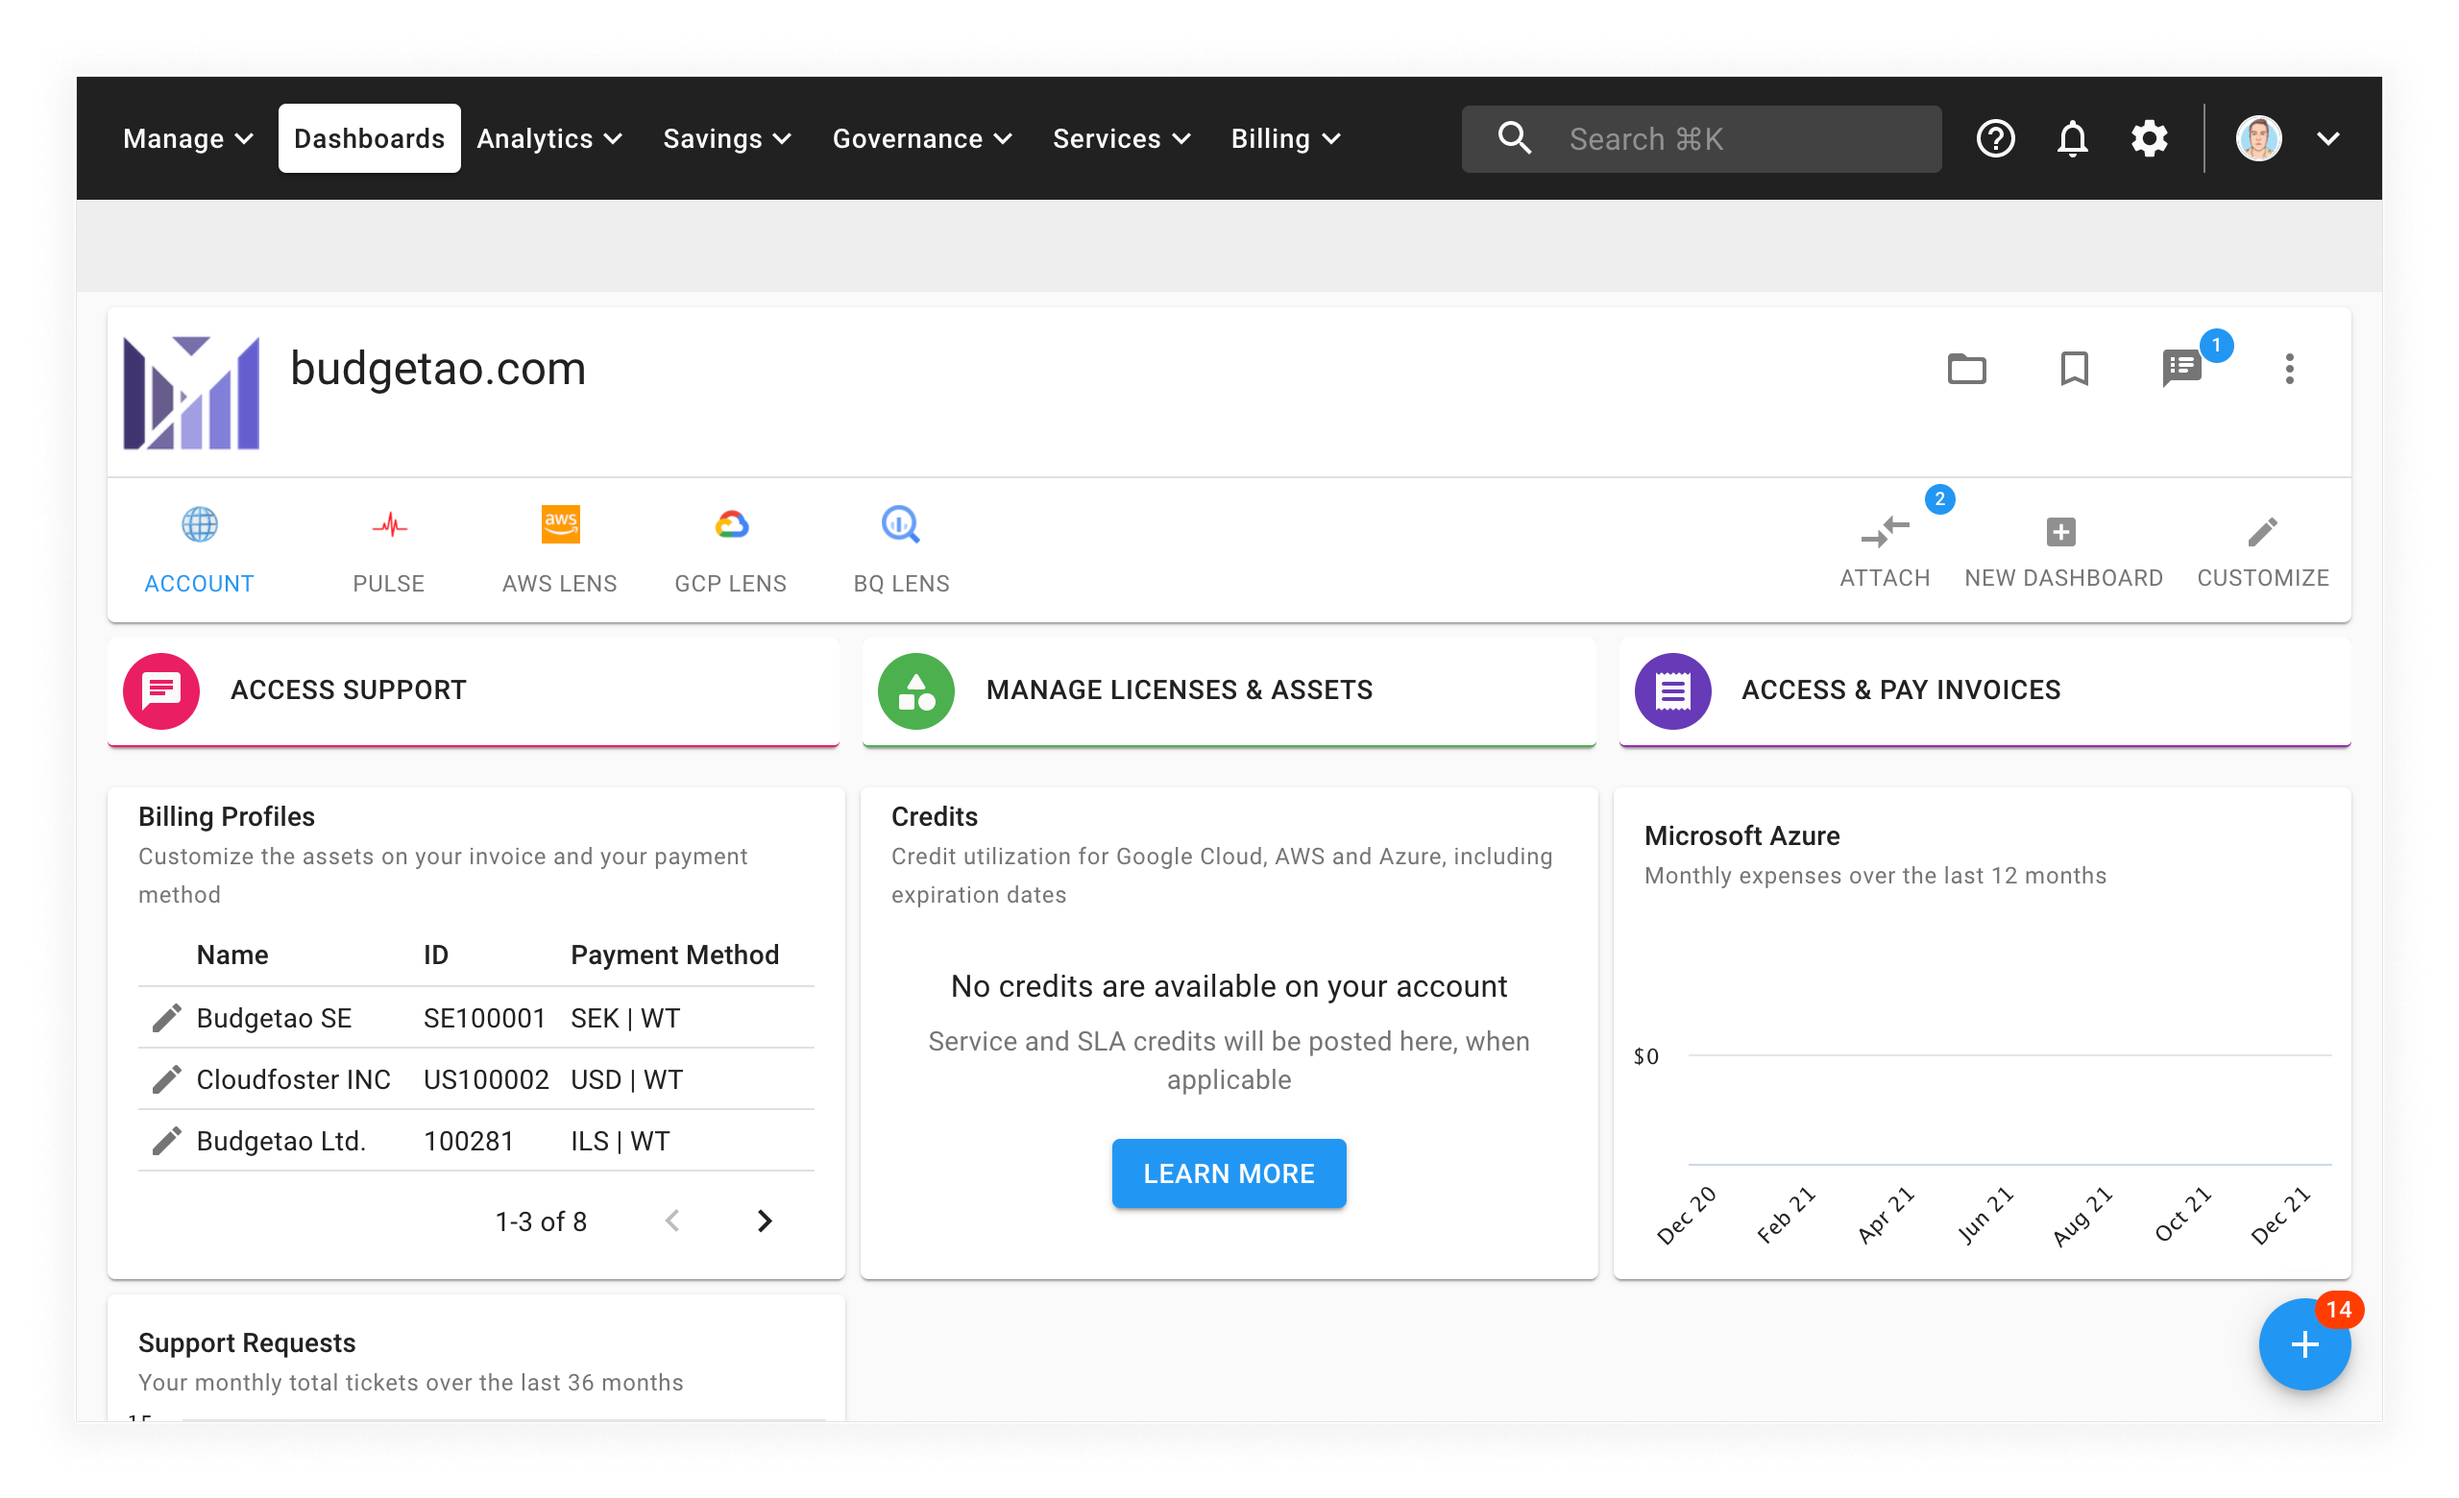
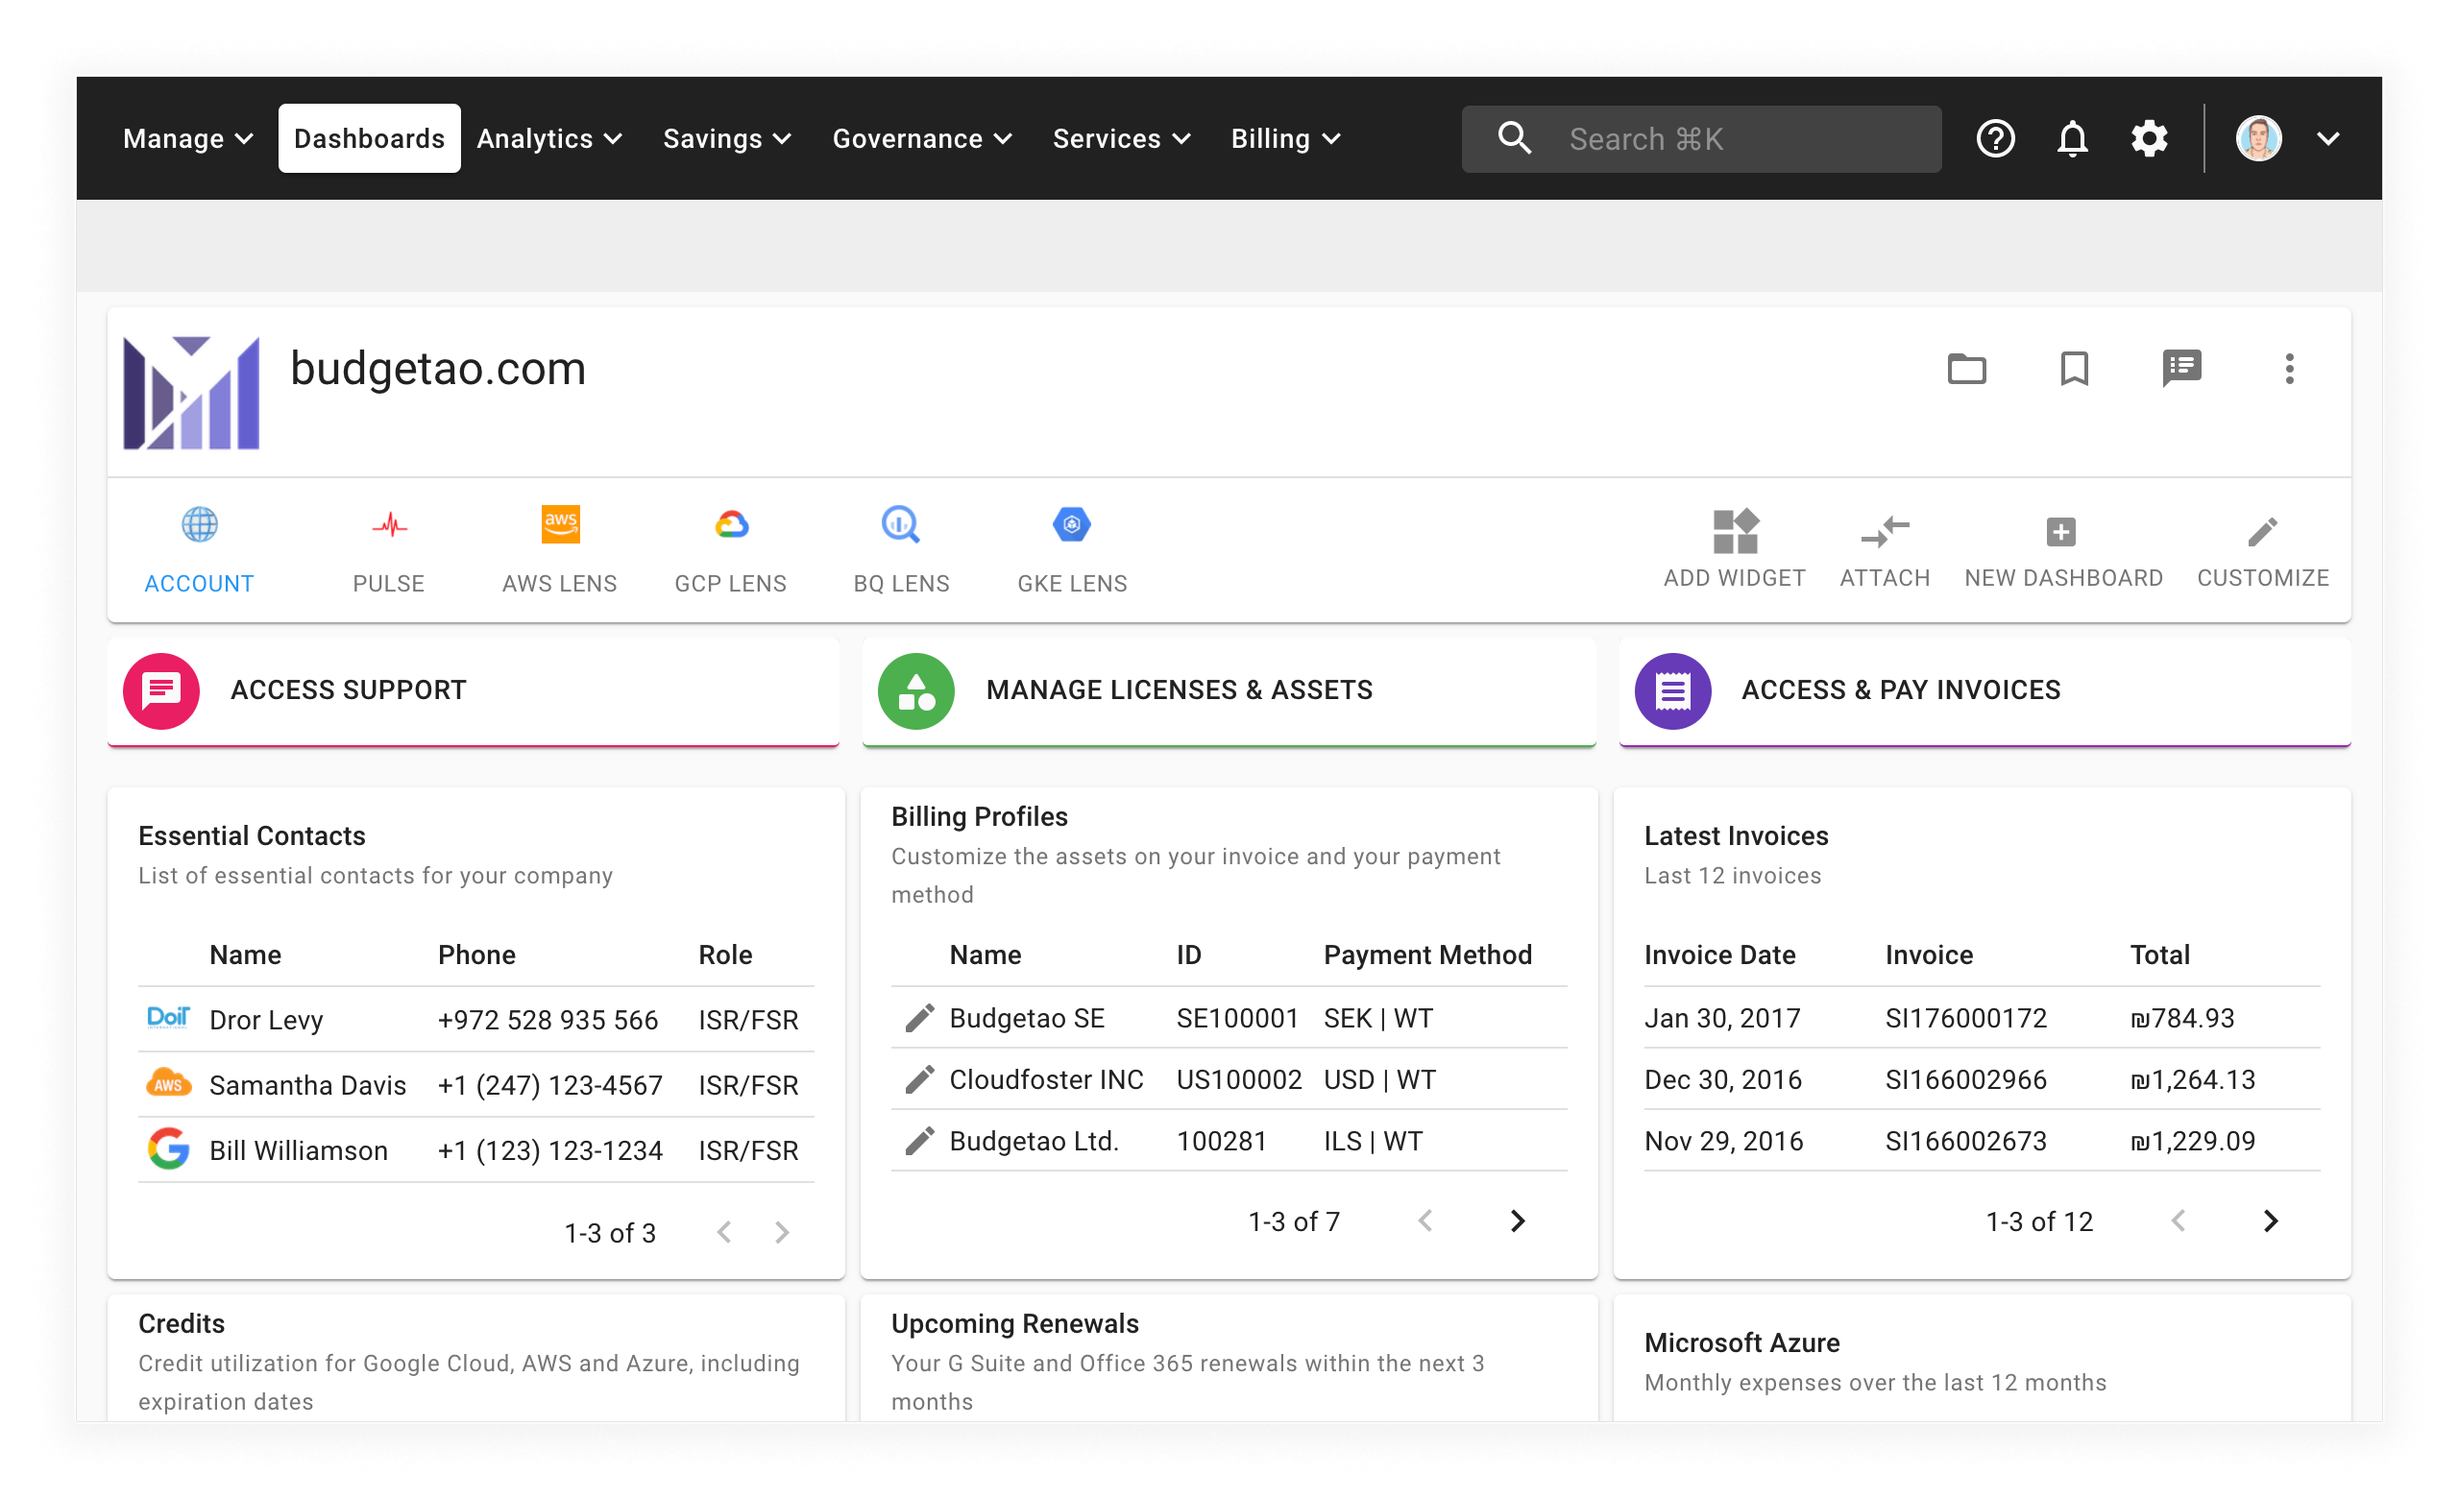
Update docs on dashboards and widgets
The way to add widgets to dashboards has changed. This commit makes the
necessary changes to the screenshots and copy. While I was at it, I
revamped related docs on creating new dashboards, customizing
dashboards, and so on.

diff --git a/docs/dashboards/creating-a-new-dashboard.md b/docs/dashboards/creating-a-new-dashboard.md
@@ -1,38 +1,54 @@
 # Create New Dashboard
 
-You can maintain multiple dashboards in your Cloud Management Platform to visualize metrics, manage licenses, and access important data for your organization.
+You can maintain multiple dashboards in your Cloud Management Platform to visualize metrics, manage licenses, and access essential data for your organization.
 
-In order to create a new dashboard, go to the right-hand side of the page and click 'Add Dashboard'.
+Start from an existing dashboard:
 
-![A screenshot showing the _Add dashboard_ modal dialog](../.gitbook/assets/cmp-create-new-dashboard-1.png)
+![A screenshot the default CMP dashboard](../.gitbook/assets/cmp-dashboard.png)
 
-Create the 'New Dashboard' and choose a name, for example, 'AWS', 'Google Cloud', 'Finance', 'Ops', or anything else that suits your use case.
+Select the _New Dashboard_ button from the right-hand side of the dashboard navigation bar:
 
-Every dashboard can be 'Private', or 'Public'.
+![A screenshot showing the _New Dashboard_ modal dialog](../.gitbook/assets/cmp-dashboard-add-new.png)
 
-* Private - only you can view the dashboard
-* Public - any user in your organization can access this dashboard
+Choose a name that suits your use-case (e.g., "Finance", "Google Cloud", "AWS", and so on).
 
-When creating a new public dashboard, choose whether or not to grant other users permission to edit the dashboard by switching on the 'Enable others to edit' toggle.
+Every dashboard can be _Private_ or _Public_:
 
-![A screenshot showing the details of the Add Dashboard modal dialog](../.gitbook/assets/cmp-add-dashboard.png)
+* Private — only you can view the dashboard
+* Public — any user in your organization can access this dashboard
 
-Once a dashboard has been created, adding widgets is the next step in the dashboard customization process. Go to the bottom right-hand corner and click 'Add Widgets'.
+If you select _Public_, you will be given the option to allow other people in your organization to edit the dashboard.
 
-![A screenshot showing the location of the Add Widgets icon](../.gitbook/assets/cmp-add-widgets.png)
+The _Density_ determines the layout of the dashboard (with more dense dashboards having smaller widgets but more display space, and vice-versa).
 
-Select widgets from the Widgets Library you'd like to add to your dashboard.
+Select _Create_ to create your new dashboard.
 
-![A screenshot of the Widgets Library menu](../.gitbook/assets/cmp-dashboard-widgets-library.png)
+The CMP will create your new dashboard and take you to the new dashboard page.
 
-In the following example, I created a customized dashboard named "Cloud FinOps".
+## Add widgets
 
-![A screenshot showing the location of the _Add Widgets_ button](../.gitbook/assets/cmp-create-new-dashboard-2.png)
+Once a dashboard has been created, you can add widgets by selecting the _Add Widget_ button from the right-hand side of the dashboard navigation bar.
 
-Considering that a user can have multiple dashboards which can be either 'Private' and 'Public', notice the globe icon next to a dashboard title; the globe icon represents a 'Public' dashboard. There are a few dependencies for recognizing a dashboard as Private or Public :
+Selecting _Add Widget_ will slide open the widgets panel:
 
-1. Globe icon **+** 'Customize' button disabled **+** 'Add Widgets' button doesn't appear - public, non-editable dashboard
-2. Lock icon - your own private dashboard
-3. Dashboard title text is highlighted blue - currently viewing dashboard
+![A screenshot showing the location the widgets panel](../.gitbook/assets/cmp-dashboard-new-add-widgets.png)
 
-For more info on accessing a Public Dashboard, go [here](accessing-a-public-dashboard.md).
+Select the plus icon next to the widget you want to add to your dashboard.
+
+This example shows a dashboard named "Finance" with three finance-related widgets:
+
+![A screenshot showing an example dashboard](../.gitbook/assets/cmp-dashboard-new-example.png)
+
+## Edit widgets
+
+To edit widgets, select _Customize_ from the right-hand side of the dashboard navigation bar.
+
+After selecting _Customize_, two icons will appear in the top right-hand corner of each widget. The first icon (two columns of three dots) allows you to drag widgets around and rearrange the dashboard. The second icon (a trash can) allows you to remove the widget from the dashboard.
+
+When you are finished editing the dashboard, select _Done_ from the right-hand side of the dashboard navigation bar to save your changes.
+
+{% hint style="info" %}
+
+See also: [Accessing a public dashboard](accessing-a-public-dashboard.md)
+
+{% endhint %}

diff --git a/docs/dashboards/customizing-dashboards.md b/docs/dashboards/customizing-dashboards.md
@@ -1,11 +1,29 @@
 # Customize Dashboards
 
-To personalize the appearance of your Home Dashboard, you can reorder the widgets to your preference, or remove them from the dashboard entirely.
+To personalize the appearance of a dashboard, you can reorder the widgets to your preference or remove them from the dashboard entirely.
 
-On the Home Dashboard go to the right-hand side of the page and click on 'Customize'.
+If you have permission to edit a dashboard, the _Add Widget_ and _Customize_ buttons will be visible on the dashboard navigation bar:
 
-![A screenshot highlighting the _Customize_ icon](../.gitbook/assets/cmp-customize-dashboards-1.png)
+![A screenshot the default CMP dashboard](../.gitbook/assets/cmp-dashboard.png)
 
-After clicking the 'Customize' button, you can move the widgets around and in addition, remove them from the dashboard.
+{% hint style="info" %}
 
-After clicking 'Done', I have my new view of the Home Dashboard.
+You can only customize a dashboard if you have the permissions to edit it. For example, if someone else in your organization has shared a public dashboard but has disabled edits, the _Add Widget_ and _Customize_ buttons will not be available.
+
+{% endhint %}
+
+## Add widgets
+
+Selecting _Add Widget_ will slide open the widgets panel:
+
+![A screenshot showing the location the widgets panel](../.gitbook/assets/cmp-dashboard-add-widgets.png)
+
+Select the plus icon next to the widget you want to add to your dashboard.
+
+## Edit widgets
+
+To edit widgets, select _Customize_ from the right-hand side of the dashboard navigation bar.
+
+After selecting _Customize_, two icons will appear in the top right-hand corner of each widget. The first icon (two columns of three dots) allows you to drag widgets around and rearrange the dashboard. The second icon (a trash can) allows you to remove the widget from the dashboard.
+
+When you are finished editing the dashboard, select _Done_ from the right-hand side of the dashboard navigation bar to save your changes.

diff --git a/docs/dashboards/accessing-a-public-dashboard.md b/docs/dashboards/accessing-a-public-dashboard.md
@@ -1,17 +1,14 @@
 # Access Public Dashboard
 
-In order to access a Public Dashboard that was created by another user in your organization, go to the right-hand side of the page, and click 'Attach'.
+To access a dashboard that someone else in your organization has made public, select the _Attach_ button from the right-hand side of the dashboard navigation bar:
 
-![A screenshot highlighting the location of the _Attach_ icon](../.gitbook/assets/cmp-public-dashboard-1.png)
+![A screenshot the default CMP dashboard](../.gitbook/assets/cmp-dashboard.png)
 
-Choose a dashboard from the dropdown list, and click 'Attach'.
+A modal dialog will open with a drop-down menu allowing you to select which dashboard you want to attach. Select the _Attach_ button when you have made your choice.
 
-![A screenshot showing the list of available dashboards](../.gitbook/assets/cmp-attach-dashboard.png)
+After selecting _Attach_, you will be taken to the dashboard, and a new button will be added to the left-hand side of your dashboard navigation bar.
 
-Instantly, you'll see the dashboard appear in the exact format from which it was created. As a user, you have the ability to edit this dashboard by using the 'Customize' button. The 'Add Widgets' button on the bottom right is available as well.
+An arrow icon will appear if you hover over the new button on your dashboard navigation bar. Selecting the arrow will display a drop-down menu with two options:
 
-{% hint style="info" %}
-
-If the owner did not enable others to edit, you will not be to customize the Dashboard.
-
-{% endhint %}
+1. _Set As Default_ — Sets this dashboard as your default dashboard
+2. _Detach_ — Removes this dashboard from your dashboard navigation bar

diff --git a/docs/amazon-web-services/aws-quotas.md b/docs/amazon-web-services/aws-quotas.md
@@ -28,13 +28,15 @@ Read [this article](link-account.md) to see how to link your AWS IAM Role, and s
 
 ## Adding the Quotas widget to your dashboard
 
-Once set up, you can add the 'Amazon Web Services Quotas' widget to any of your dashboards within the Cloud Management Platform. You will also start receiving the email notifications as you get close or reach the service limits.
+Once set up, you can add the _Amazon Web Services Quotas_ widget to any of your dashboards within the Cloud Management Platform. You will also start receiving the email notifications as you get close or reach the service limits.
 
-To do so, first go to the dashboard you'd like to add the widget to. Then, locate the 'Add Widgets' button in the lower-right corner of your screen and find the 'Amazon Web Services Quotas' option.
+To do so, first go to the dashboard you'd like to add the widget to. Then, select _Add Widget_ from the dashboard navigation bar.
 
-![A screenshot of the _Amazon Web Services Quotas_ option](../.gitbook/assets/cmp-add-widget-aws-quotas.png)
+Selecting _Add Widget_ will slide open the widgets panel:
 
-Finally, click on the widget option to add it as a widget to your dashboard.
+![A screenshot showing the location the widgets panel](../.gitbook/assets/cmp-dashboard-add-widgets.png)
+
+With the widgets panel open, find the _Amazon Web Services Quotas_ widget and select the plus icon to add it to your dashboard:
 
 ![A screenshot of the quotas widget](../.gitbook/assets/cmp-aws-quotas-widget.png)
 

diff --git a/docs/dashboards/bigquery-lens.md b/docs/dashboards/bigquery-lens.md
@@ -17,8 +17,7 @@ To check the status of your service account, select the _Settings_ icon (a gear)
 
 ![A screenshot of the _Google Cloud_ settings screen"](../.gitbook/assets/cmp-google-cloud-settings.png)
 
-You will need to enable the BigQuery Lens feature on this screen to use the
-BigQuery Lens. The same is true for BigQuery Lens Advanced.
+You will need to enable the BigQuery Lens feature on this screen to use the BigQuery Lens. The same is true for BigQuery Lens Advanced.
 
 After your service account has been uploaded and you have enabled the features you want, you will see:
 
@@ -28,9 +27,9 @@ After your service account has been uploaded and you have enabled the features y
 
 ## Setup
 
-Once the Google Cloud Service Account setup is complete, select the _Attach_ button on from the CMP dashboard:
+Once the Google Cloud Service Account setup is complete, select the _Attach_ button from the dashboard navigation bar:
 
-![A screenshot showing the location of the _Attach_ icon](../.gitbook/assets/cmp-dashboard-attach.png)
+![A screenshot showing the location of the _Attach_ icon](../.gitbook/assets/cmp-dashboard-attach-bigquery-lens.png)
 
 Select _BigQuery Lens_ from the list of options.
 
